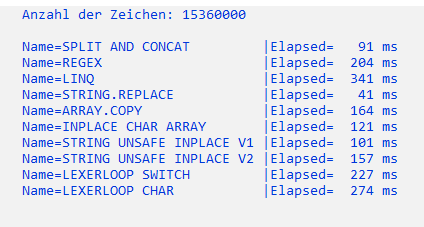
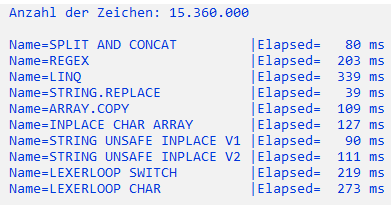
*

Changed region(s): [[0.0, 0.1756, 0.9821, 0.9659], [0.0, 0.8195, 0.4604, 0.9659], [0.0, 0.0293, 0.6445, 0.0878]]

diff --git a/BestPracticeDilemma/Program.cs b/BestPracticeDilemma/Program.cs
@@ -102,9 +102,33 @@ namespace BestPracticeDilemma
             while (true);
         }
 
+        private static void BenchmarkAll()
+        {
+            Console.Clear();
+            demoStrings = DemoTextBuilder.GenerateStrings(10000, 1024);
+            long sumChar = demoStrings.Sum(s => s.Length);
+            Console.WriteLine($"\tAnzahl der Zeichen: {sumChar.ToString("N0")}");
+            Console.WriteLine("");
+
+            BenchmarkSplitAndConcat(true);
+            BenchmarkTrimAllWithRegex(true);
+            BenchmarkLinq(true);
+            BenchmarkStringReplace(true);
+            BenchmarkArrayCopy(true);
+            BenchmarkTrimAllWithInplaceCharArray(true);
+            BenchmarkTrimAllWithStringUnsafeInplaceV1(true);
+            BenchmarkTrimAllWithStringUnsafeInplaceV2(true);
+            BenchmarkTrimAllWithLexerLoop(true);
+            BenchmarkTrimAllWithLexerLoopCharIsWhitespce(true);
+
+            Console.WriteLine("\t");
+            Console.WriteLine("\tEine Taste für zurück drücken.");
+            Console.ReadKey();
+        }
+
         private static void Execute(Action method, string name, bool all = false)
         {
-            demoStrings = DemoTextBuilder.GenerateStrings(10000,1024);
+            demoStrings = DemoTextBuilder.GenerateStrings(10000, 1024);
             long sum = demoStrings.Sum(s => s.Length);
 
             Stopwatch watch = new Stopwatch();
@@ -119,35 +143,15 @@ namespace BestPracticeDilemma
 
             if (all == false)
             {
-                Console.WriteLine($"\tName={name.PadRight(25)}|Elapsed={elapsed.ToString("N0").PadLeft(5)} ms");
+                Console.WriteLine($"\tName = {name.PadRight(25)} Elapsed = {elapsed.ToString("N0").PadLeft(5)} ms");
+                Console.WriteLine("\t");
+                Console.WriteLine("\tEine Taste für zurück drücken.");
                 Console.ReadKey();
             }
             else
             {
-                Console.WriteLine($"\tName={name.PadRight(25)}|Elapsed={elapsed.ToString("N0").PadLeft(5)} ms");
+                Console.WriteLine($"\tName = {name.PadRight(25)} Elapsed = {elapsed.ToString("N0").PadLeft(5)} ms");
             }
-        }
-
-        private static void BenchmarkAll()
-        {
-            Console.Clear();
-            demoStrings = DemoTextBuilder.GenerateStrings(10000, 1024);
-            long sumChar = demoStrings.Sum(s => s.Length);
-            Console.WriteLine($"\tAnzahl der Zeichen: {sumChar}");
-            Console.WriteLine("");
-
-            BenchmarkSplitAndConcat(true);
-            BenchmarkTrimAllWithRegex(true);
-            BenchmarkLinq(true);
-            BenchmarkStringReplace(true);
-            BenchmarkArrayCopy(true);
-            BenchmarkTrimAllWithInplaceCharArray(true);
-            BenchmarkTrimAllWithStringUnsafeInplaceV1(true);
-            BenchmarkTrimAllWithStringUnsafeInplaceV2(true);
-            BenchmarkTrimAllWithLexerLoop(true);
-            BenchmarkTrimAllWithLexerLoopCharIsWhitespce(true);
-
-            Console.ReadKey();
         }
 
         #region TrimAllWithSplitAndConcat

diff --git a/BestPracticeDilemma/TrimHelpers.cs b/BestPracticeDilemma/TrimHelpers.cs
@@ -80,7 +80,7 @@ namespace BestPracticeDilemma
              * Diese Methode ist funktionell NICHT gleichwertig mit den anderen, da sie nur " " (string.Empty) trimmt. 
              * ASCII-Zeichen und Leerzeichen umfassen viele andere zusätzliche Zeichen
              */
-            return str.Replace(" ", "");
+            return str.Replace(" ", string.Empty);
         }
 
         public static string TrimAllWithCharArrayCopy(string str)
